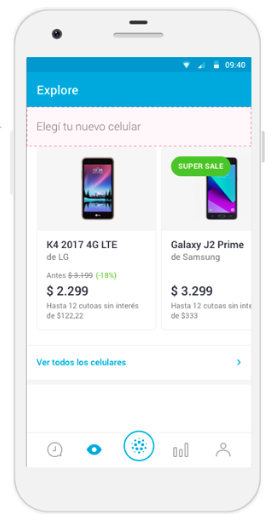
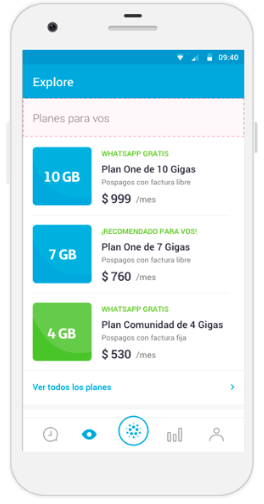
GitBook: [master] 4 pages and 7 assets modified

diff --git a/modulo/crear-modulo/vertical-cards.md b/modulo/crear-modulo/vertical-cards.md
@@ -1,0 +1,44 @@
+---
+description: >-
+  Muestra elementos en formato vertical. Úsalo, por ejemplo, para presentar
+  ofertas de móviles.
+---
+
+# Vertical cards
+
+Este tipo de módulo sirve para mostrar varios elementos en formato vertical. Es muy útil para presentar, por ejemplo, ofertas de productos.
+
+Se muestra a modo carrusel ofreciendo enlaces en cada _card_ y elementos opcionales como la etiqueta sobre la imagen o un enlace a toda una lista \(un “Ver todo”\).
+
+![](../../.gitbook/assets/image%20%2815%29.png)
+
+Rellena los campos obligatorios y decide si necesitas rellenar alguno de los campos opcionales:
+
+## Details
+
+![](../../.gitbook/assets/image%20%2812%29.png)
+
+**Name**. Nombre que identifica internamente al elemento. En la app no se muestra en ningún momento pero con ese nombre puedes identificar el módulo en la vista de listado de módulos.
+
+🚦 No tiene una longitud máxima y es **obligatorio**.
+
+**For more information check the guidelines**. Consulta las guías de diseño relativas al módulo que estás creando o editando. Revísalas para asegurar que estás subiendo contenido de la mejor calidad posible.
+
+## Module building
+
+![](../../.gitbook/assets/image%20%2811%29.png)
+
+**Section Title**. Título que se muestra encima del módulo siempre que no esté posicionado en primer lugar. Cuando va en la primera posición, no hay título de sección \(en ese caso el título de sección es siempre _Explore_\). Además, este título sirve para identificar internamente el módulo que estás creando. Con ese título puedes identificar el módulo en la vista de listado de módulos.
+
+🚦 Tiene una longitud máxima de 25 caracteres y es obligatorio.
+
+## Cards
+
+Las _cards_ son las secciones que componen el carrusel. Para cada módulo de tipo _Vertical cards_ configura un mínimo de 2 _cards_ y un máximo de 6.
+
+![](https://lh4.googleusercontent.com/c9wk0BR7o_NRDVd8j8oEbRz4kw2bsAxtElG12AOb-WoJPsiMk-Y_C20MKdhOp3rGsruc-pvB1sfQ_b7R2YrEg4Z3DQssUhqtEFxtTifo3MM2iwITkHaItk_xNLwrmDL15w0CBE4t)
+
+Para cada _card_ los campos disponibles son:
+
+
+

diff --git a/modulo/crear-modulo/README.md b/modulo/crear-modulo/README.md
@@ -14,9 +14,9 @@ Selecciona el tipo de módulo que vas a utilizar para tu diseño.
 
 ![Featured Content](../../.gitbook/assets/image%20%286%29.png)
 
-![Vertical Cards](../../.gitbook/assets/image%20%2814%29.png)
+![Vertical Cards](../../.gitbook/assets/image%20%2817%29.png)
 
-![Rows](../../.gitbook/assets/image%20%2812%29.png)
+![Rows](../../.gitbook/assets/image%20%2814%29.png)
 
 ![Banner](../../.gitbook/assets/image%20%2810%29.png)
 

diff --git a/modulo/crear-modulo/featured-content.md b/modulo/crear-modulo/featured-content.md
@@ -16,7 +16,7 @@ Rellena los campos obligatorios y decide si necesitas rellenar alguno de los cam
 
 ## Details
 
-![](../../.gitbook/assets/image%20%2813%29.png)
+![](../../.gitbook/assets/image%20%2816%29.png)
 
 **Name**. Nombre que identifica internamente al elemento. En la app no se muestra en ningún momento pero con ese nombre puedes identificar el módulo en la vista de listado de módulos.
 

diff --git a/SUMMARY.md b/SUMMARY.md
@@ -12,6 +12,7 @@
 * [Módulo](modulo/README.md)
   * [Crear módulo](modulo/crear-modulo/README.md)
     * [Featured Content](modulo/crear-modulo/featured-content.md)
+    * [Vertical cards](modulo/crear-modulo/vertical-cards.md)
   * [Editar módulo](modulo/editar-modulo.md)
   * [Repositorio de módulos](modulo/repositorio-de-modulos.md)
 * [Layout](layout/README.md)
